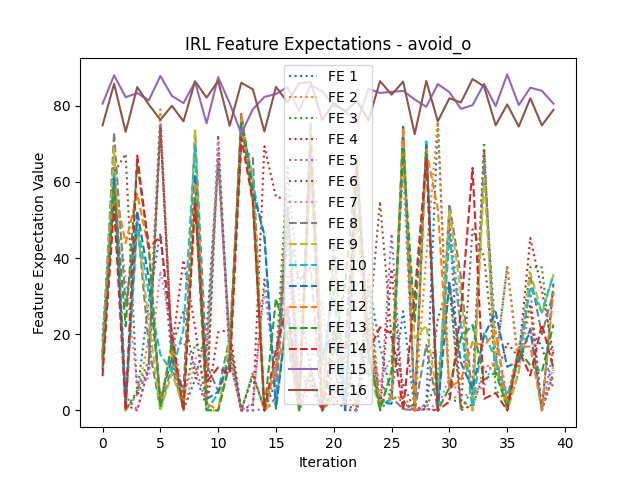
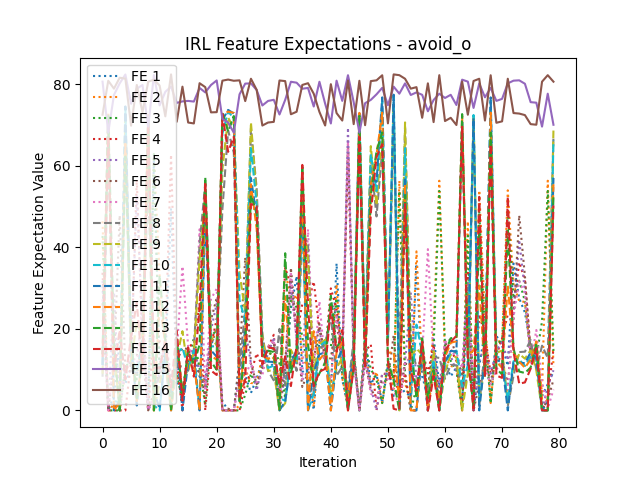
updated q-learning method (epsilon greedy)

diff --git a/irl.py b/irl.py
@@ -94,15 +94,16 @@ def q_learning(episodes: int, dw: DroneWorld, w):
 
     # Define variables
     gamma = 0.99
-    epsilon = 0.3
-    alpha = 0.2
+    epsilon = 0.5
+    edf = 0.98  # Epsilon Decay Factor
+    #alpha = 0.1
 
     # Create Neural network
     nn = Sequential()
     nn.add(Dense(16, activation='relu'))
-    nn.add(Dense(32, activation='relu'))
-    nn.add(Dense(32, activation='relu'))
-    nn.add(Dense(4, activation='linear'))
+    nn.add(Dense(64, activation='relu'))
+    nn.add(Dense(64, activation='relu'))
+    nn.add(Dense(4, activation='softmax'))
     nn.compile(loss='mse', optimizer='adam', metrics=['mae'])
 
     # Reset starting position
@@ -134,15 +135,17 @@ def q_learning(episodes: int, dw: DroneWorld, w):
         sf_old = dw.state_features
         q_old = q_values_old[action]
         # Calculate new reward
-        reward = sum(np.multiply(dw.state_features, w))
+        reward = sum(np.multiply(sf_old, w))
         # Update environment by one step
         dw.move_drone_by_action(a)
         max_next_state = max(nn.predict(np.expand_dims(dw.state_features, axis=0), verbose=None)[0])
-        target = q_old + alpha * (reward + (gamma * max_next_state) - q_old)
+        # target = q_old + alpha * (reward + (gamma * max_next_state) - q_old)
+        target = reward + (gamma * max_next_state) - q_old
         # Update Q(s' ,a') with new target value
         q_values_old[action] = target
         # Backpropagation of weights inside the Neural Network
-        nn.fit(np.expand_dims(sf_old, axis=0), np.expand_dims(q_values_old, axis=0), epochs=1, verbose=None)
+        nn.fit(np.expand_dims(sf_old, axis=0), np.expand_dims(q_values_old, axis=0), epochs=1)
+        epsilon *= edf
     print(f'Action Count (w, a, s, d): {action_count}')
     return nn
 

diff --git a/barplot_generator.py b/barplot_generator.py
@@ -31,36 +31,5 @@ if __name__ == '__main__':
 
     # Save the figure and show
     plt.tight_layout()
-    plt.savefig('bar_plot_with_error_bars.png')
+    plt.savefig('results2/ex_4/bar_plot_with_error_bars.png')
     plt.show()
-
-    """
-    
-    values = [
-        -0.0781,
-        0.0057,
-        -0.0468,
-        -0.4989,
-        0.2056,
-        0.1712,
-        -0.2304,
-        0.0263,
-        -0.2969,
-        0.4720,
-        -0.4899,
-        0.1205,
-        -0.1842,
-        0.1771,
-        -0.5213,
-        0.3382,
-    ]
-
-    x = np.arange(1, 17)
-
-    plt.bar(x, values)
-    plt.xlabel('Reward Weight Index')
-    plt.ylabel('Weight Value')
-    plt.xticks(x)
-    plt.show()
-    """
-

diff --git a/ex_1.py b/ex_1.py
@@ -12,8 +12,8 @@ training_policies = [
 ]
 
 n_traj = 20
-n_steps = 250
-irl_iterations = 40
+n_steps = 200
+irl_iterations = 80
 show_log = True
 generate_new_traj = True
 
@@ -51,7 +51,7 @@ if __name__ == '__main__':
 
         # --- Step 3: Execute IRL ---
 
-        w_list, mu_list = execute_irl(irl_iterations, n_steps, 0.99, dw, traj_list)
+        w_list, mu_list = execute_irl(irl_iterations, n_steps, 0.99, dw, traj_list, create_heatmap=True)
 
         result_dir = f'results2/ex_1/{pol_type}'
         if os.path.exists(result_dir):
